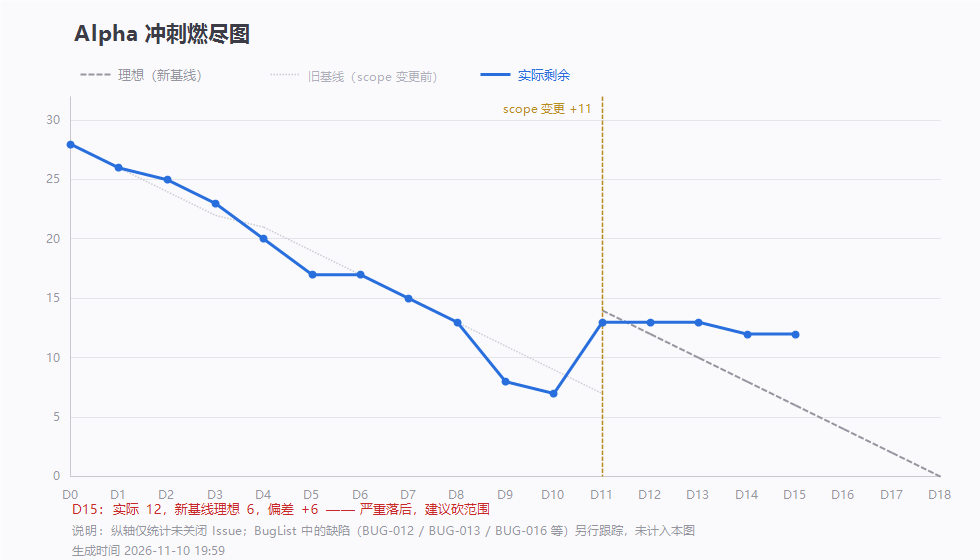
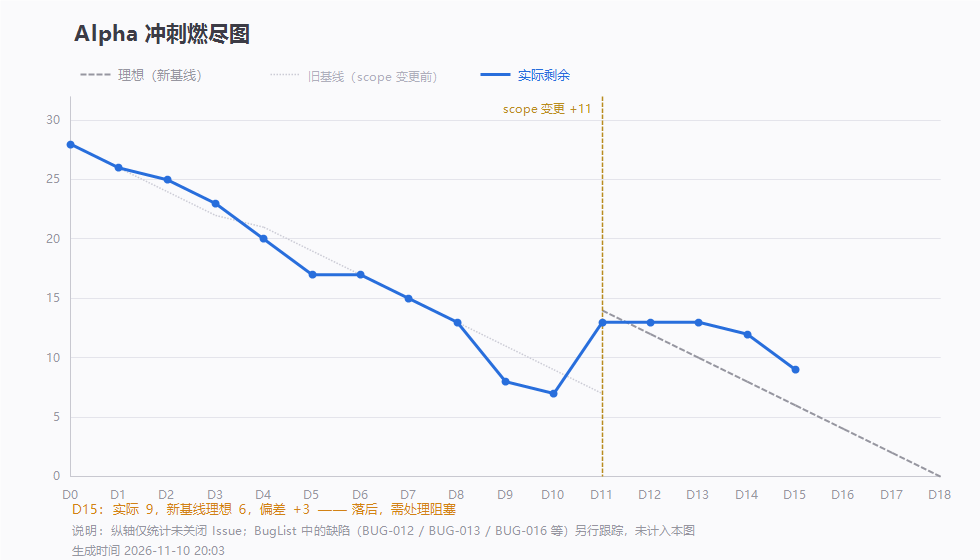
docs: 燃尽口径变更②——#44/#45/#46 不计入迭代计数（GitHub 保持 open），剩余 9 条 (#3 #44 #45 #46)

diff --git a/docs/Alpha延展段-D12-D18计划.md b/docs/Alpha延展段-D12-D18计划.md
@@ -196,6 +196,9 @@ D11 晚我原本准备收 Alpha，老师给了明确反馈：
 > **画法说明（11-06 晚修正）**：燃尽图用**双基线**——旧理想线（点线）停在 D11，标出「scope 变更前原本的计划」；新理想线（虚线）从 D11=14 起算到 D18=0。这样两条线各自单调递减，不会出现「理想线先降后升」的假图。
 > 早期版本把 D11 理想写成旧基线的 7、D12 又跳到 12，导致理想线中途上翘——那是画错了，已修。
 >
+> **口径变更 ②（2026-11-10，D15，组长决定）**：`#44` 测试报告、`#45` 软工原理报告、`#46` 每周心得**不纳入本轮迭代的燃尽计数** —— 理由：这三条是文档交付，任务还没布置到具体某一天，按天烧不成立。**GitHub 上保持 open，照样要交**，只是不进这张图。
+> 因此 D15 起剩余按 **34 条口径**统计（37 − 3）：D15 实际 9 条。理想线**不做重设**，沿用原基线（6 → 4 → 2 → 0），避免出现「理想线上翘」——这是 D11 已经踩过的坑。
+>
 > 口径说明：燃尽度量的是**未关闭 issue 数**。D11 从 5 条升到 14 条，是老师要求扩范围导致的 scope 变更，**不是退步**。
 > ⚠ BUG-016 / BUG-012 / BUG-013 走 BugList 后**不进燃尽计数**，但工作照样要做——**别因为图上好看就当它们不存在**。
 
